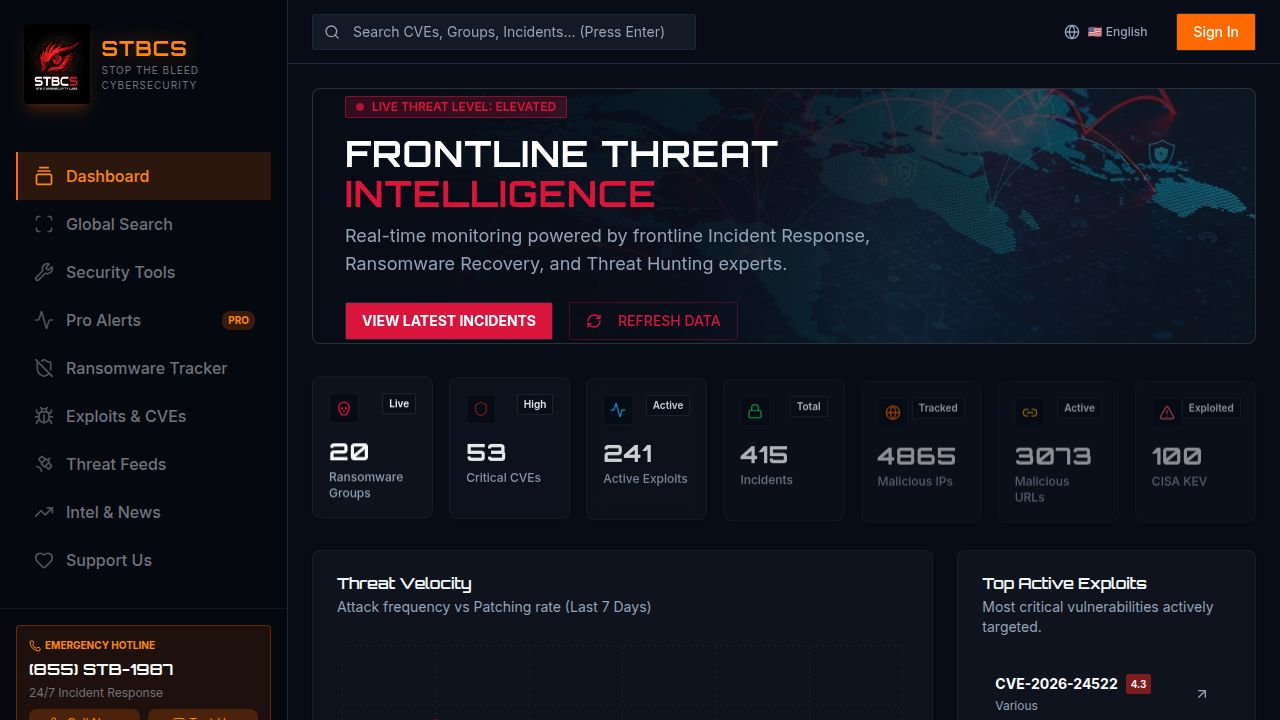
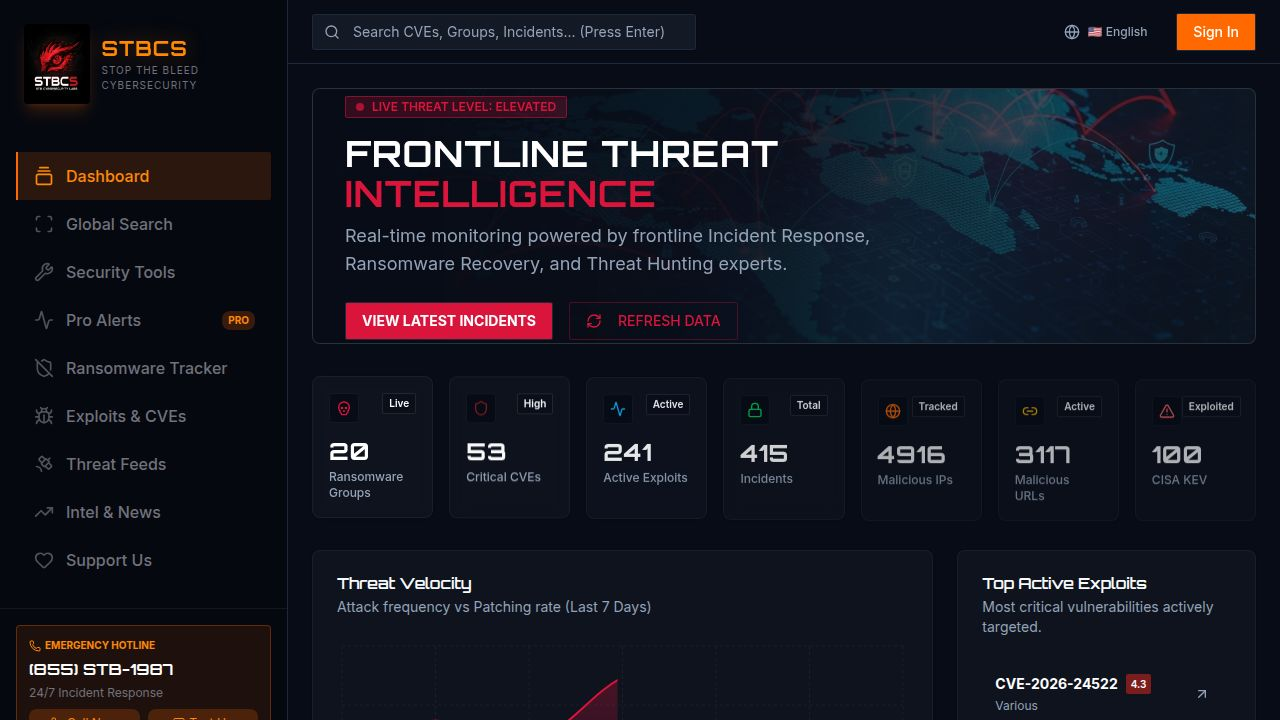
Add new threat intelligence feeds for enhanced security monitoring
Integrates HoneyDB and AbuseIPDB threat feeds by adding new scraper functions, updating the main data fetching logic, and documenting the new API requirements in replit.md.

Replit-Commit-Author: Agent
Replit-Commit-Session-Id: be38ecc5-d99f-423c-8340-b2af9b60731f
Replit-Commit-Checkpoint-Type: intermediate_checkpoint
Replit-Commit-Event-Id: d057baae-0633-48cd-893e-73985c489d3f
Replit-Commit-Screenshot-Url: https://storage.googleapis.com/screenshot-production-us-central1/ef1a2641-077c-46f9-b918-b5fe8bca092d/be38ecc5-d99f-423c-8340-b2af9b60731f/FONjEWM
Replit-Helium-Checkpoint-Created: true

diff --git a/server/scrapers.ts b/server/scrapers.ts
@@ -2747,6 +2747,15 @@ export async function fetchAllData(): Promise<void> {
   await delay(1000);
   
   // ===========================================
+  // NEW 2025 THREAT FEEDS (Free Tier APIs)
+  // ===========================================
+  await fetchHoneyDB();
+  await delay(1000);
+  
+  await fetchAbuseIPDB();
+  await delay(1000);
+  
+  // ===========================================
   // RANSOMWARE & NEWS DATA (from ransomware.live)
   // ===========================================
   await fetchRansomwareData();
@@ -2755,6 +2764,197 @@ export async function fetchAllData(): Promise<void> {
   console.log("[Scraper] ========================================");
   console.log("[Scraper] All 40+ threat feeds processed successfully");
   console.log("[Scraper] ========================================");
+}
+
+// ============================================
+// HONEYDB API INTEGRATION
+// Honeypot threat intelligence - 1,500 queries/month FREE
+// Register at: https://honeydb.io/
+// ============================================
+const HONEYDB_API = "https://honeydb.io/api";
+
+// Fetch malicious IPs from HoneyDB honeypot network
+export async function fetchHoneyDB(): Promise<number> {
+  const apiId = process.env.HONEYDB_API_ID;
+  const apiKey = process.env.HONEYDB_API_KEY;
+  
+  if (!apiId || !apiKey) {
+    console.log("[HoneyDB] No API credentials configured - skipping (add HONEYDB_API_ID and HONEYDB_API_KEY for 1,500 queries/month FREE)");
+    return 0;
+  }
+  
+  try {
+    console.log("[HoneyDB] Fetching honeypot threat intelligence...");
+    
+    // Get bad hosts from the last 24 hours
+    const response = await secureFetch(`${HONEYDB_API}/bad-hosts`, {
+      headers: {
+        "X-HoneyDb-ApiId": apiId,
+        "X-HoneyDb-ApiKey": apiKey,
+      }
+    });
+    
+    if (!response.ok) {
+      if (response.status === 401) {
+        console.log("[HoneyDB] Invalid API credentials - please check your keys");
+      } else if (response.status === 429) {
+        console.log("[HoneyDB] Monthly quota exceeded - will resume next month");
+      } else {
+        throw new Error(`HoneyDB error: ${response.status}`);
+      }
+      return 0;
+    }
+    
+    const badHosts = await response.json();
+    let count = 0;
+    
+    // Process bad hosts (IPs that connected to honeypots)
+    if (Array.isArray(badHosts)) {
+      for (const host of badHosts.slice(0, 200)) {
+        try {
+          if (host.remote_host && /^\d+\.\d+\.\d+\.\d+$/.test(host.remote_host)) {
+            const ipData: InsertMaliciousIp = {
+              ipAddress: host.remote_host,
+              source: "HoneyDB",
+              threatType: "honeypot_attacker",
+              lastSeen: new Date(),
+              riskScore: Math.min(100, (host.count || 1) * 10),
+            };
+            await storage.upsertMaliciousIp(ipData);
+            count++;
+          }
+        } catch (err) {
+          continue;
+        }
+      }
+    }
+    
+    console.log(`[HoneyDB] Processed ${count} honeypot attacker IPs`);
+    await storage.updateFeedLastFetched("HoneyDB");
+    return count;
+  } catch (error) {
+    console.error("[HoneyDB] Error:", error);
+    return 0;
+  }
+}
+
+// ============================================
+// ABUSEIPDB API INTEGRATION
+// IP reputation intelligence - 1,000 queries/day FREE
+// Register at: https://www.abuseipdb.com/register
+// ============================================
+const ABUSEIPDB_API = "https://api.abuseipdb.com/api/v2";
+
+// Fetch blacklisted IPs from AbuseIPDB
+export async function fetchAbuseIPDB(): Promise<number> {
+  const apiKey = process.env.ABUSEIPDB_API_KEY;
+  
+  if (!apiKey) {
+    console.log("[AbuseIPDB] No API key configured - skipping (add ABUSEIPDB_API_KEY for 1,000 queries/day FREE)");
+    return 0;
+  }
+  
+  try {
+    console.log("[AbuseIPDB] Fetching IP reputation blacklist...");
+    
+    // Get the most abusive IPs (confidence score 100)
+    const response = await secureFetch(`${ABUSEIPDB_API}/blacklist?limit=500&confidenceMinimum=90`, {
+      headers: {
+        "Key": apiKey,
+        "Accept": "application/json",
+      }
+    });
+    
+    if (!response.ok) {
+      if (response.status === 401) {
+        console.log("[AbuseIPDB] Invalid API key - please check your key");
+      } else if (response.status === 429) {
+        console.log("[AbuseIPDB] Daily quota exceeded - will resume tomorrow");
+      } else {
+        throw new Error(`AbuseIPDB error: ${response.status}`);
+      }
+      return 0;
+    }
+    
+    const data = await response.json();
+    let count = 0;
+    
+    // Process blacklisted IPs
+    if (data.data && Array.isArray(data.data)) {
+      for (const entry of data.data.slice(0, 500)) {
+        try {
+          const ipData: InsertMaliciousIp = {
+            ipAddress: entry.ipAddress,
+            source: "AbuseIPDB",
+            threatType: "abuse_reported",
+            lastSeen: entry.lastReportedAt ? new Date(entry.lastReportedAt) : new Date(),
+            riskScore: entry.abuseConfidenceScore || 100,
+            country: entry.countryCode || null,
+          };
+          await storage.upsertMaliciousIp(ipData);
+          count++;
+        } catch (err) {
+          continue;
+        }
+      }
+    }
+    
+    console.log(`[AbuseIPDB] Processed ${count} reported abusive IPs`);
+    await storage.updateFeedLastFetched("AbuseIPDB");
+    return count;
+  } catch (error) {
+    console.error("[AbuseIPDB] Error:", error);
+    return 0;
+  }
+}
+
+// AbuseIPDB IP check function for enrichment (used by security tools)
+export async function checkIPWithAbuseIPDB(ip: string): Promise<{
+  abuseScore: number;
+  totalReports: number;
+  countryCode: string;
+  isp: string;
+  domain: string;
+  isWhitelisted: boolean;
+  lastReported: string | null;
+} | null> {
+  const apiKey = process.env.ABUSEIPDB_API_KEY;
+  
+  if (!apiKey) {
+    return null;
+  }
+  
+  try {
+    const response = await secureFetch(`${ABUSEIPDB_API}/check?ipAddress=${encodeURIComponent(ip)}&maxAgeInDays=90`, {
+      headers: {
+        "Key": apiKey,
+        "Accept": "application/json",
+      }
+    });
+    
+    if (!response.ok) {
+      return null;
+    }
+    
+    const data = await response.json();
+    
+    if (data.data) {
+      return {
+        abuseScore: data.data.abuseConfidenceScore || 0,
+        totalReports: data.data.totalReports || 0,
+        countryCode: data.data.countryCode || "",
+        isp: data.data.isp || "",
+        domain: data.data.domain || "",
+        isWhitelisted: data.data.isWhitelisted || false,
+        lastReported: data.data.lastReportedAt || null,
+      };
+    }
+    
+    return null;
+  } catch (error) {
+    console.error("[AbuseIPDB] IP check error:", error);
+    return null;
+  }
 }
 
 // ============================================

diff --git a/replit.md b/replit.md
@@ -171,7 +171,7 @@ One-time contributions: $5, $10, $25, $50, $100, or custom amounts
 | Cisco Talos | Enterprise IP Blocklist | Active |
 | ThreatFeeds.io | Aggregated Intelligence | Active |
 
-### Premium APIs (FREE Accounts Required) - 7 Feeds
+### Premium APIs (FREE Accounts Required) - 9 Feeds
 | Feed | Data Type | Free Tier | Env Variable | Get Account At |
 |------|-----------|-----------|--------------|----------------|
 | AlienVault OTX | IoCs, Malware, IPs | 10K req/hour | OTX_API_KEY | https://otx.alienvault.com |
@@ -181,13 +181,14 @@ One-time contributions: $5, $10, $25, $50, $100, or custom amounts
 | CrowdSec | Malicious IPs | 50/day | CROWDSEC_API_KEY | https://www.crowdsec.net |
 | Shodan | Internet Scanning | 100/month | SHODAN_API_KEY | https://account.shodan.io |
 | Pulsedive | Community Intel | 100/day | PULSEDIVE_API_KEY | https://pulsedive.com |
+| HoneyDB | Honeypot Attacker IPs | 1,500/month | HONEYDB_API_ID, HONEYDB_API_KEY | https://honeydb.io |
+| AbuseIPDB | IP Abuse Reports | 1,000/day | ABUSEIPDB_API_KEY | https://abuseipdb.com |
 
 *Hybrid Analysis requires account vetting for full API access
 
 ### Future Expansion Options
 | Feed | Data Type | Notes |
 |------|-----------|-------|
-| HoneyDB | Honeypot Activity | Free API key signup |
-| Shadowserver | Botnet Data | Free for non-commercial |
-| AbuseIPDB | IP Abuse Reports | 1000/day free tier |
 | URLScan.io | URL Analysis | 5K/day free tier |
+| Vulners | CVE-to-Exploit Mapping | Free tier available |
+| Shadowserver | Botnet Data | Free for non-commercial |
